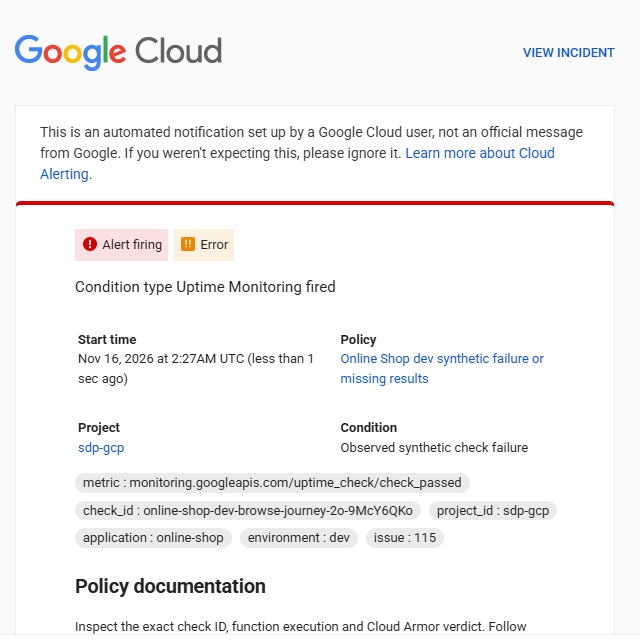
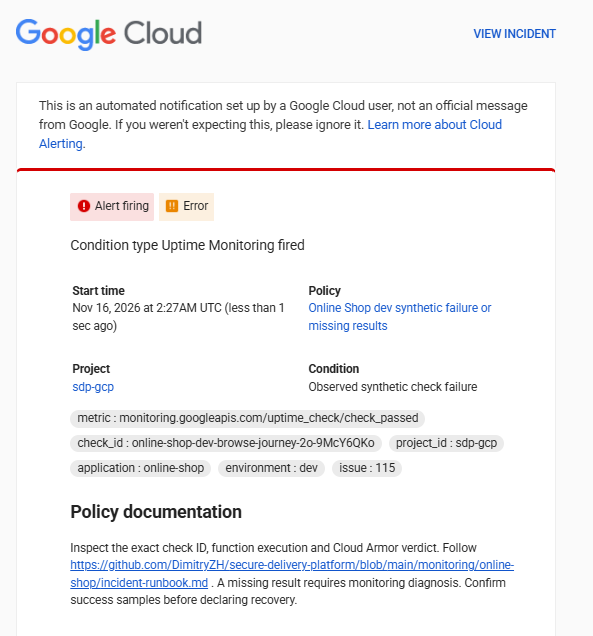
docs(observability): add matching synthetic recovery email

Changed region(s): [[0.0304, 0.1494, 0.9713, 0.9858], [0.0, 0.0299, 0.3642, 0.1195], [0.7892, 0.0299, 0.9713, 0.0896]]

diff --git a/monitoring/online-shop/incident-acceptance.md b/monitoring/online-shop/incident-acceptance.md
@@ -31,23 +31,29 @@ traces, screenshots, session material and operator details remain private.
 | Successful scheduled journey | 02:31:03.553570 | Execution `f10fe9da97381429054fecea40f8e8cc`: three GETs, HTTP 200 |
 | Frontend incident closed | 02:32:09 | Actual API readback |
 | Synthetic incident closed | 02:33:08 | Actual API readback after successful scheduled results |
-| Failure email received | **Exact receipt time unknown** | Operator confirmation and matching notification screenshot retained privately |
+| Firing/recovered emails received | **Exact receipt times unknown** | Operator-supplied matching notification screenshots; event times are not receipt times |
 
 The email screenshot's 02:27 UTC value is the alert start minute, **not** the receipt timestamp.
-Notification delivery is confirmed for the matching synthetic policy/check; no recovery-email
-claim is made. Delivery was an acceptance outcome, not a prerequisite for starting the exercise.
+The operator supplied matching firing and recovered emails for the same synthetic policy/check.
+Exact receipt times are unknown. Delivery was an acceptance outcome, not a prerequisite for
+starting the exercise.
 
-## Recorded synthetic email
+## Recorded synthetic firing and recovered emails
 
-<img src="../../docs/images/online-shop/synthetic-alert-firing.png" width="520" alt="Google Cloud synthetic alert firing for sdp-gcp, policy Online Shop dev synthetic failure or missing results, November 16 2026 at 02:27 UTC">
+| Alert firing | Alert recovered |
+| --- | --- |
+| <img src="../../docs/images/online-shop/synthetic-alert-firing.png" width="440" alt="Synthetic alert firing for sdp-gcp, Online Shop dev synthetic failure or missing results, check online-shop-dev-browse-journey-2o-9McY6QKo, November 16 2026 at 02:27 UTC"> | <img src="../../docs/images/online-shop/synthetic-alert-recovered.png" width="440" alt="Matching synthetic alert recovered for sdp-gcp, same policy and check, Uptime Monitoring closed, displayed duration 5 minutes 37 seconds"> |
 
-The publication crop removes mailbox/account controls while preserving the policy, project,
-check ID, firing status and alert start time. The operator confirmed receipt; the exact
-receipt time is unknown. The 02:27 UTC start minute is not the email receipt timestamp.
+Recorded synthetic firing and recovery notifications during the controlled cartservice outage
+on November 16, 2026. Both show project `sdp-gcp`, policy **Online Shop dev synthetic failure or
+missing results**, check `online-shop-dev-browse-journey-2o-9McY6QKo` and start 02:27 UTC.
+The recovered email displays **5 mins 37 secs**: this is the alert duration, not application
+outage duration or email delivery latency. The operator supplied the pair as receipt evidence;
+exact receipt times remain unknown. Alert event timestamps are not receipt timestamps.
 
-Only the firing notification receipt is evidenced here. Recovery is established by successful
-scheduled results and the incident API closure in the timeline; recovery-email delivery is
-not claimed. No frontend-warning email is used as synthetic recovery evidence.
+The supplied publication images contain no mailbox/account controls or recipient address.
+No email was reconstructed and no frontend-warning notification is substituted. Successful
+scheduled results and incident API closure remain independent recovery evidence in the timeline.
 
 ## Failure, recovery and cleanup evidence
 
@@ -87,7 +93,7 @@ traffic was generated to force a result. The later documentation review explicit
 that disposition does not turn this historical query check into a pass.
 
 This exercise does not prove continuous reliability, load/HA behavior, lossless export, Redis
-durability, recovery-email delivery or Armor enforcement. The one-injection authorization was
+durability, notification delivery guarantees or Armor enforcement. The one-injection authorization was
 consumed; another injection requires new authorization.
 
 ## Historical checkpoint and subsequent review

diff --git a/docs/releases/v0.2.0.md b/docs/releases/v0.2.0.md
@@ -26,7 +26,7 @@ server calls and their downstream catalog calls, not a sustained/load scenario.
 
 WAF SQLi/XSS403 and normal HTTPS200 were attributed to actual enforced policy logs.
 The [incident exercise](../../monitoring/online-shop/incident-acceptance.md) confirmed detection,
-operator-received failure email, bounded recovery, successful scheduled results and incident
+operator-supplied matching firing/recovered emails, bounded recovery, successful scheduled results and incident
 closure. Exact email receipt time is unknown. Repeated stop/resume recovered permanent
 placement and Collector2/2 without ad hoc eviction. These records are not current health:
 nodes remain paused and no new live validation accompanies these notes.

diff --git a/docs/architecture/online-shop.md b/docs/architecture/online-shop.md
@@ -28,7 +28,8 @@ Logical signal paths, not every exporter, receiver or infrastructure component. 
 stdout logs are collected separately from OTLP traces/metrics. No Redis SERVER spans are
 claimed. Collector agents cover both worker nodes when running; the diagram does not imply
 current availability while nodes are paused. The firing/recovered email labels describe
-notification paths, not proof of receipt for both message types.
+notification paths; the incident record contains one matching operator-supplied email pair,
+not a notification-delivery guarantee.
 
 [SVG](../images/online-shop/observability.svg) ·
 [Graphviz source](observability.dot) · [Mermaid source](observability.mmd).
